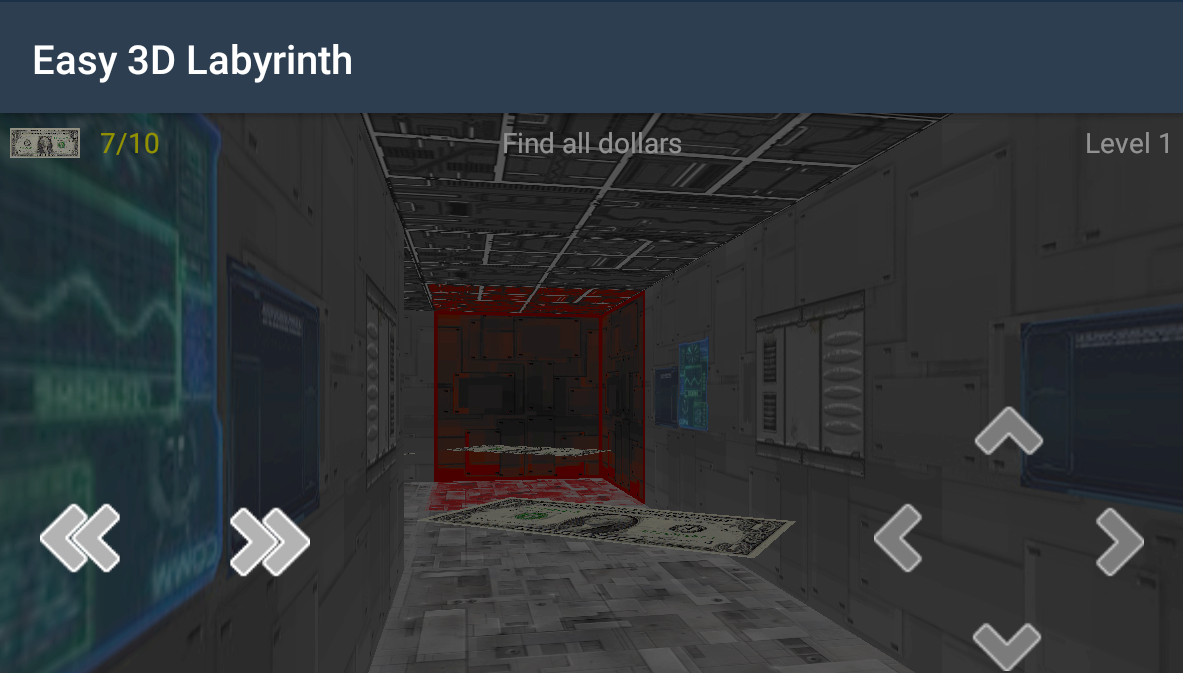
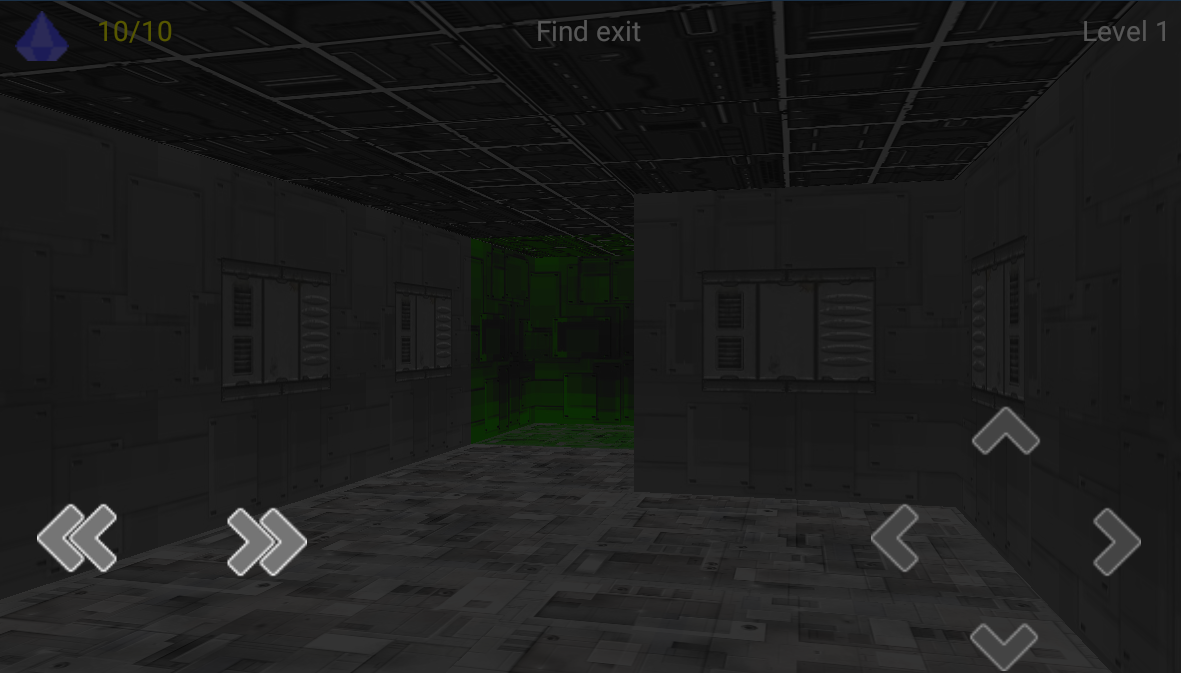
graphics, labyrinth diamonds

diff --git a/Easy3dLabyrinth/Resources/Resource.designer.cs b/Easy3dLabyrinth/Resources/Resource.designer.cs
@@ -3132,26 +3132,26 @@ namespace Easy3DLabyrinth
 			// aapt resource value: 0x7f020054
 			public const int avd_hide_password = 2130837588;
 			
-			// aapt resource value: 0x7f020089
-			public const int avd_hide_password_1 = 2130837641;
-			
 			// aapt resource value: 0x7f02008a
-			public const int avd_hide_password_2 = 2130837642;
+			public const int avd_hide_password_1 = 2130837642;
 			
 			// aapt resource value: 0x7f02008b
-			public const int avd_hide_password_3 = 2130837643;
+			public const int avd_hide_password_2 = 2130837643;
+			
+			// aapt resource value: 0x7f02008c
+			public const int avd_hide_password_3 = 2130837644;
 			
 			// aapt resource value: 0x7f020055
 			public const int avd_show_password = 2130837589;
 			
-			// aapt resource value: 0x7f02008c
-			public const int avd_show_password_1 = 2130837644;
-			
 			// aapt resource value: 0x7f02008d
-			public const int avd_show_password_2 = 2130837645;
+			public const int avd_show_password_1 = 2130837645;
 			
 			// aapt resource value: 0x7f02008e
-			public const int avd_show_password_3 = 2130837646;
+			public const int avd_show_password_2 = 2130837646;
+			
+			// aapt resource value: 0x7f02008f
+			public const int avd_show_password_3 = 2130837647;
 			
 			// aapt resource value: 0x7f020056
 			public const int blue0 = 2130837590;
@@ -3196,115 +3196,118 @@ namespace Easy3DLabyrinth
 			public const int ic_mtrl_chip_close_circle = 2130837603;
 			
 			// aapt resource value: 0x7f020064
-			public const int labBottom = 2130837604;
+			public const int item = 2130837604;
 			
 			// aapt resource value: 0x7f020065
-			public const int labBottomF = 2130837605;
+			public const int labBottom = 2130837605;
 			
 			// aapt resource value: 0x7f020066
-			public const int labBottomL = 2130837606;
+			public const int labBottomF = 2130837606;
 			
 			// aapt resource value: 0x7f020067
-			public const int labBottomS = 2130837607;
+			public const int labBottomL = 2130837607;
 			
 			// aapt resource value: 0x7f020068
-			public const int labTop = 2130837608;
+			public const int labBottomS = 2130837608;
 			
 			// aapt resource value: 0x7f020069
-			public const int labTopF = 2130837609;
+			public const int labTop = 2130837609;
 			
 			// aapt resource value: 0x7f02006a
-			public const int labTopL = 2130837610;
+			public const int labTopF = 2130837610;
 			
 			// aapt resource value: 0x7f02006b
-			public const int labTopS = 2130837611;
+			public const int labTopL = 2130837611;
 			
 			// aapt resource value: 0x7f02006c
-			public const int labWall0 = 2130837612;
+			public const int labTopS = 2130837612;
 			
 			// aapt resource value: 0x7f02006d
-			public const int labWall1 = 2130837613;
+			public const int labWall0 = 2130837613;
 			
 			// aapt resource value: 0x7f02006e
-			public const int labWall2 = 2130837614;
+			public const int labWall1 = 2130837614;
 			
 			// aapt resource value: 0x7f02006f
-			public const int labWall3 = 2130837615;
+			public const int labWall2 = 2130837615;
 			
 			// aapt resource value: 0x7f020070
-			public const int labWallF = 2130837616;
+			public const int labWall3 = 2130837616;
 			
 			// aapt resource value: 0x7f020071
-			public const int labWallL = 2130837617;
+			public const int labWallF = 2130837617;
 			
 			// aapt resource value: 0x7f020072
-			public const int labWallS = 2130837618;
+			public const int labWallL = 2130837618;
 			
 			// aapt resource value: 0x7f020073
-			public const int money = 2130837619;
+			public const int labWallS = 2130837619;
 			
 			// aapt resource value: 0x7f020074
-			public const int moneySmall = 2130837620;
+			public const int money = 2130837620;
 			
 			// aapt resource value: 0x7f020075
-			public const int mtrl_snackbar_background = 2130837621;
+			public const int moneySmall = 2130837621;
 			
 			// aapt resource value: 0x7f020076
-			public const int mtrl_tabs_default_indicator = 2130837622;
+			public const int mtrl_snackbar_background = 2130837622;
 			
 			// aapt resource value: 0x7f020077
-			public const int navigation_empty_icon = 2130837623;
+			public const int mtrl_tabs_default_indicator = 2130837623;
 			
 			// aapt resource value: 0x7f020078
-			public const int notification_action_background = 2130837624;
+			public const int navigation_empty_icon = 2130837624;
 			
 			// aapt resource value: 0x7f020079
-			public const int notification_bg = 2130837625;
+			public const int notification_action_background = 2130837625;
 			
 			// aapt resource value: 0x7f02007a
-			public const int notification_bg_low = 2130837626;
+			public const int notification_bg = 2130837626;
 			
 			// aapt resource value: 0x7f02007b
-			public const int notification_bg_low_normal = 2130837627;
+			public const int notification_bg_low = 2130837627;
 			
 			// aapt resource value: 0x7f02007c
-			public const int notification_bg_low_pressed = 2130837628;
+			public const int notification_bg_low_normal = 2130837628;
 			
 			// aapt resource value: 0x7f02007d
-			public const int notification_bg_normal = 2130837629;
+			public const int notification_bg_low_pressed = 2130837629;
 			
 			// aapt resource value: 0x7f02007e
-			public const int notification_bg_normal_pressed = 2130837630;
+			public const int notification_bg_normal = 2130837630;
 			
 			// aapt resource value: 0x7f02007f
-			public const int notification_icon_background = 2130837631;
-			
-			// aapt resource value: 0x7f020087
-			public const int notification_template_icon_bg = 2130837639;
-			
-			// aapt resource value: 0x7f020088
-			public const int notification_template_icon_low_bg = 2130837640;
+			public const int notification_bg_normal_pressed = 2130837631;
 			
 			// aapt resource value: 0x7f020080
-			public const int notification_tile_bg = 2130837632;
+			public const int notification_icon_background = 2130837632;
+			
+			// aapt resource value: 0x7f020088
+			public const int notification_template_icon_bg = 2130837640;
+			
+			// aapt resource value: 0x7f020089
+			public const int notification_template_icon_low_bg = 2130837641;
 			
 			// aapt resource value: 0x7f020081
-			public const int notify_panel_notification_icon_bg = 2130837633;
+			public const int notification_tile_bg = 2130837633;
 			
 			// aapt resource value: 0x7f020082
-			public const int step = 2130837634;
+			public const int notify_panel_notification_icon_bg = 2130837634;
 			
 			// aapt resource value: 0x7f020083
-			public const int tooltip_frame_dark = 2130837635;
+			public const int step = 2130837635;
 			
 			// aapt resource value: 0x7f020084
-			public const int tooltip_frame_light = 2130837636;
+			public const int tooltip_frame_dark = 2130837636;
 			
 			// aapt resource value: 0x7f020085
-			public const int translucent = 2130837637;
+			public const int tooltip_frame_light = 2130837637;
 			
 			// aapt resource value: 0x7f020086
-			public const int transparent = 2130837638;
+			public const int translucent = 2130837638;
+			
+			// aapt resource value: 0x7f020087
+			public const int transparent = 2130837639;
 			
 			static Drawable()
 			{
@@ -3595,6 +3598,9 @@ namespace Easy3DLabyrinth
 			// aapt resource value: 0x7f0a0000
 			public const int item_touch_helper_previous_elevation = 2131361792;
 			
+			// aapt resource value: 0x7f0a00b2
+			public const int itemimageview = 2131361970;
+			
 			// aapt resource value: 0x7f0a004e
 			public const int labeled = 2131361870;
 			
@@ -3607,11 +3613,11 @@ namespace Easy3DLabyrinth
 			// aapt resource value: 0x7f0a00b4
 			public const int leftDisplayTextView = 2131361972;
 			
+			// aapt resource value: 0x7f0a00b1
+			public const int leftdisplayItemcontainer = 2131361969;
+			
 			// aapt resource value: 0x7f0a00b3
 			public const int leftdisplaycontainer = 2131361971;
-			
-			// aapt resource value: 0x7f0a00b1
-			public const int leftdisplaymoneycontainer = 2131361969;
 			
 			// aapt resource value: 0x7f0a001c
 			public const int line1 = 2131361820;
@@ -3636,9 +3642,6 @@ namespace Easy3DLabyrinth
 			
 			// aapt resource value: 0x7f0a0059
 			public const int mini = 2131361881;
-			
-			// aapt resource value: 0x7f0a00b2
-			public const int moneyimageview = 2131361970;
 			
 			// aapt resource value: 0x7f0a0014
 			public const int mtrl_child_content_container = 2131361812;

diff --git a/GLEngineMobile/GLTexture.cs b/GLEngineMobile/GLTexture.cs
@@ -54,73 +54,17 @@ namespace GLEngineMobile
             _bmp = bmp;
 
             GL.BindTexture(All.Texture2D, TexHandle);
-            
+
+            //GL.TexEnv(All.TextureEnv, All.TextureEnvMode, (float)All.Modulate);            
+
             // setup texture parameters
             GL.TexParameterx(All.Texture2D, All.TextureMagFilter, (int)All.Linear);            
             GL.TexParameterx(All.Texture2D, All.TextureMinFilter, (int)All.Linear);
             GL.TexParameterx(All.Texture2D, All.TextureWrapS, (int)All.ClampToEdge);
-            GL.TexParameterx(All.Texture2D, All.TextureWrapT, (int)All.ClampToEdge);            
+            GL.TexParameterx(All.Texture2D, All.TextureWrapT, (int)All.ClampToEdge);
 
             Android.Opengl.GLUtils.TexImage2D((int)All.Texture2D, 0, bmp, 0);
         }
-
-        /*
-
-		public void LoadFromFile(string fileName)
-		{
-			if (File.Exists(fileName))
-			{
-				Img = new Bitmap(fileName);
-				Name = Path.GetFileNameWithoutExtension(fileName);
-			}
-		}
-        */
-
-    
-        /*
-		public static GLTexture CreateFromText(string text,Font font, Brush foreground, Brush background, int minWidth = 6)
-		{
-			SizeF size;
-			var testBmp = new Bitmap(1,1);
-			using(var g = Graphics.FromImage(testBmp) )
-			{
-				// var correting text
-
-				var correctedText = new StringBuilder();
-
-				for (var i=0; i<text.Length; i++) 
-				{
-					if (text.Substring (i, 1) != Environment.NewLine) 
-					{
-						correctedText.Append ('W');
-					} else
-						correctedText.AppendLine ();
-				}
-
-				size = g.MeasureString(correctedText.ToString(),font);
-				if (size.Width<minWidth) size.Width = minWidth;
-			}
-
-			var sichr = 5;
-
-			var tex = new GLTexture();
-
-			var bmp = new Bitmap(Convert.ToInt32(size.Width+sichr),Convert.ToInt32(size.Height+sichr));
-
-				using(var g = Graphics.FromImage(bmp) )
-				{
-					var rectf = new RectangleF(0, 0, bmp.Width, bmp.Height);
-					g.FillRectangle(background,rectf);
-				    g.DrawString(text,font,foreground,rectf);
-				}
-
-				tex.Img = bmp;
-				tex.Name = "someText";
-
-			return tex;
-
-		}
-        */
 
 		public void Unload()
 		{

diff --git a/Easy3dLabyrinth/PaintingView.cs b/Easy3dLabyrinth/PaintingView.cs
@@ -184,7 +184,7 @@ namespace Easy3DLabyrinth
 
             GLTextureAdmin.AddTexturesFromResource(Context, new string[]
             {
-                "blue1", "labBottomF", "labBottomL", "labBottomS" ,
+                "blue0", "blue1", "labBottomF", "labBottomL", "labBottomS" ,
                 "labTop", "labTopF", "labTopL", "labTopS" ,
                 "labWall0", "labWall1", "labWall2", "labWall3" ,
                 "labWallF", "labWallL", "labWallS" ,
@@ -271,7 +271,7 @@ namespace Easy3DLabyrinth
                     _lastTapCrossMove = TapCrossMoveEvent.GetTapMoveEvent(
                           crossSize,
                           crossSize,
-                          e.GetX() - (Width - crossSize) - marginSize,
+                          e.GetX() - (Width - crossSize - marginSize),
                           e.GetY() - (Height - crossSize));
                 }
                 else
@@ -385,7 +385,7 @@ namespace Easy3DLabyrinth
             }
             if (CenterDisplayLabel != null)
             {
-                CenterDisplayLabel.Text = labyrinth.Locked ? "Find all dollars" : "Find exit";
+                CenterDisplayLabel.Text = labyrinth.Locked ? "Find all diamonds" : "Find exit";
             }
         }
 

diff --git a/Easy3dLabyrinth/MainActivity.cs b/Easy3dLabyrinth/MainActivity.cs
@@ -22,7 +22,8 @@ namespace Easy3DLabyrinth
             // Inflate our UI from its XML layout description
             SetContentView(Resource.Layout.main);
 
-            SupportActionBar.Hide();
+            SupportActionBar.Hide();            
+            //Window.Attributes.ScreenBrightness = 1f;  // override system display brightness
 
             var paintingView = FindViewById<PaintingView>(Resource.Id.paintingview);
             paintingView.DebugDisplayLabel = FindViewById<TextView>(Resource.Id.debugDisplayTextView);
@@ -52,11 +53,13 @@ namespace Easy3DLabyrinth
             });
 
 #if DEBUG
+            /*
             var display = FindViewById<TextView>(Resource.Id.debugDisplayTextView);
             if (display != null)
             {               
                    display.Text = $"Key: KeyCode: {keyCode}";              
             }
+            */
 #endif
 
             if ((keyCode == Keycode.Del) || (keyCode == Keycode.ForwardDel))

diff --git a/Easy3dLabyrinth/GLLabyrinthObj.cs b/Easy3dLabyrinth/GLLabyrinthObj.cs
@@ -204,9 +204,8 @@ namespace Easy3DLabyrinth
                     }
 
                     var item = new GLObject();
-                    item.LoadFromAndroidAsset(context, "money.xml");
-                    item.Position = new GLPoint((p.X + 0) * TileWidth, 0, (p.Y + 0) * TileWidth + TileWidth / 2);                    
-                    item.SetTexture("money");
+                    item.LoadFromAndroidAsset(context, "diamond.xml");
+                    item.Position = new GLPoint((p.X + 0) * TileWidth, -2, (p.Y + 0) * TileWidth + TileWidth / 2);                    
 
                     BonusItems.Add(new Point(p.X, p.Y), item);
                 }

diff --git a/SpaceDemo/PaintingView.cs b/SpaceDemo/PaintingView.cs
@@ -134,6 +134,7 @@ namespace GLEngineMobileSpaceDemo
             //GL.ShadeModel (All.Flat);
             GL.ShadeModel(All.Smooth);
             GL.ClearColor(0, 0, 0, 1);
+            GL.Clear((int)(All.ColorBufferBit | All.DepthBufferBit));
 
             GL.ClearDepth(1.0f);
             GL.Enable(All.DepthTest);

diff --git a/SpaceDemo/MainActivity.cs b/SpaceDemo/MainActivity.cs
@@ -28,6 +28,8 @@ namespace GLEngineMobileSpaceDemo
 
             paintingView.RotationLabel = FindViewById<TextView>(Resource.Id.rotationTextView);
 
+
+
             Logger.InitLoggerService(new BasicLoggingService());
             Logger.Info("Starting Space Demo");
         }

diff --git a/README.md b/README.md
@@ -6,3 +6,7 @@ Android OpenGL Engine
 <img src="https://raw.github.com/petrj/GLEngineMobile/master/Graphics/Screenshot3.png" width="600" alt="Screenshot3"/>
 <img src="https://raw.github.com/petrj/GLEngineMobile/master/Graphics/Screenshot4.png" width="600" alt="Screenshot4"/>
 <img src="https://raw.github.com/petrj/GLEngineMobile/master/Graphics/Screenshot5.png" width="600" alt="Screenshot5"/>
+<img src="https://raw.github.com/petrj/GLEngineMobile/master/Graphics/Screenshot6.png" width="600" alt="Screenshot6"/>
+<img src="https://raw.github.com/petrj/GLEngineMobile/master/Graphics/Screenshot7.png" width="600" alt="Screenshot7"/>
+<img src="https://raw.github.com/petrj/GLEngineMobile/master/Graphics/Screenshot8.png" width="600" alt="Screenshot8"/>
+<img src="https://raw.github.com/petrj/GLEngineMobile/master/Graphics/Screenshot9.png" width="600" alt="Screenshot9"/>
